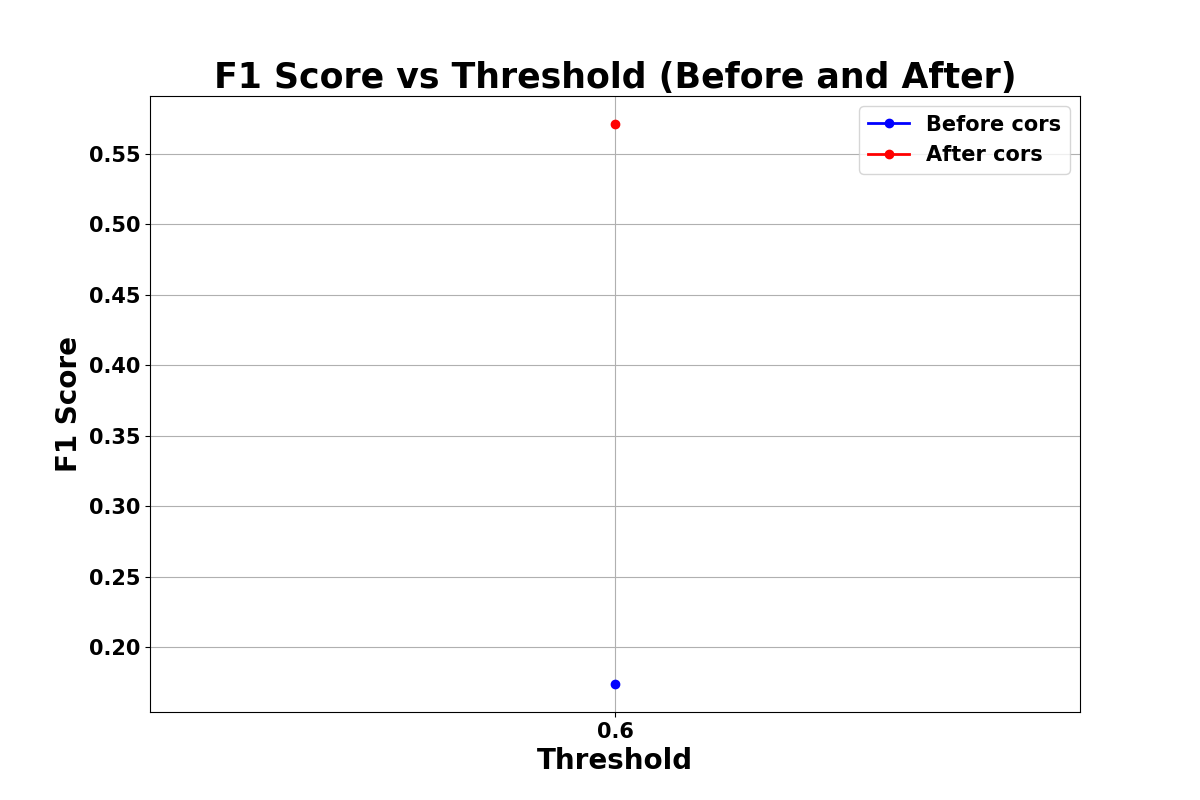
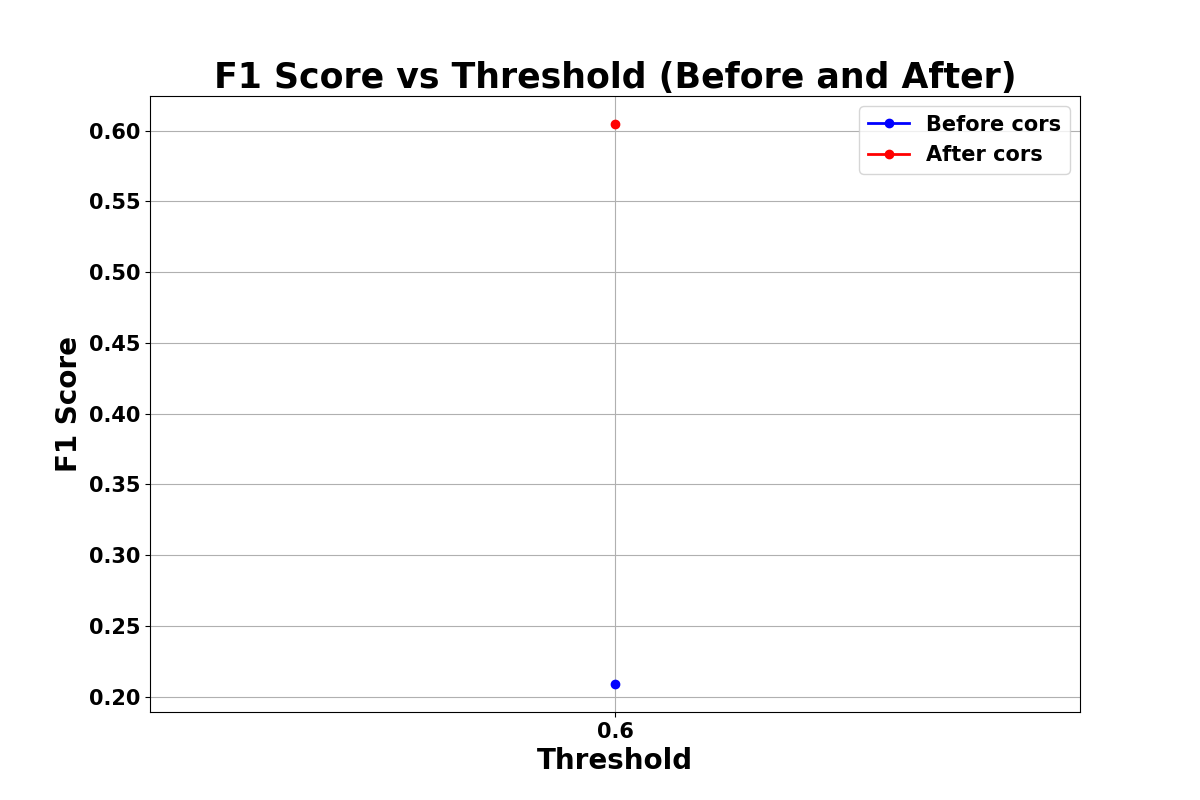
as

diff --git a/model.py b/model.py
@@ -13,8 +13,9 @@ def init_weights(m):
 def train_ensemble(train_loader, val_loader, device):
     # 모든 모델 인스턴스화
     models = generate_model()
-    models = [model.to(device) for model in models]
+    model = models.to(device)
 
+    print(f'models:{model}')
     # 손실을 저장할 리스트
     ensemble_train_losses = []
     ensemble_train_accuracy = []
@@ -22,24 +23,22 @@ def train_ensemble(train_loader, val_loader, device):
     ensemble_val_accuracy = []
 
     # 가중치 초기화 적용
-    for model in models:
-        model.apply(init_weights)
+    model.apply(init_weights)
 
     # 각 모델에 대한 옵티마이저 생성
-    optimizers = [optim.Adam(model.parameters(), lr=1e-4) for model in models]  #1e-4
-    schedulers = [ReduceLROnPlateau(opt, 'min', patience=5, factor=0.5) for opt in optimizers]  # 학습률 스케줄러 추가
+    optimizers = optim.Adam(model.parameters(), lr=1e-4)  #1e-4
+    schedulers = ReduceLROnPlateau(optimizers, 'min', patience=5, factor=0.5)  # 학습률 스케줄러 추가
 
     # 손실 함수
     criterion = nn.BCEWithLogitsLoss().to(device)
-    es = EarlyStopping(patience=7, verbose=True, delta=0.001, path='./loss_and_accuracy')
+    es = EarlyStopping(patience=7, verbose=True, delta=0.001, path='../loss_and_accuracy')
 
     # 학습 루프
     num_epochs = 100
     print('use bagging')
 
     for epoch in range(num_epochs):
-        for model in models:
-            model.train()
+        model.train()
 
         train_loss = 0.0
         train_total = 0
@@ -55,8 +54,8 @@ def train_ensemble(train_loader, val_loader, device):
                 targets = labels.float().unsqueeze(1)
 
                 # i번째 모델로 예측
-                optimizers[i].zero_grad()
-                outputs = models[i](inputs)
+                optimizers.zero_grad()
+                outputs = model(inputs)
                 loss = criterion(outputs, targets)
                 bag_loss += loss.item()
 
@@ -67,7 +66,7 @@ def train_ensemble(train_loader, val_loader, device):
 
                 # 역전파 및 최적화
                 loss.backward()
-                optimizers[i].step()
+                optimizers.step()
 
             # 각 bag의 loss와 정확도를 전체에 더함
             train_loss += bag_loss
@@ -77,8 +76,7 @@ def train_ensemble(train_loader, val_loader, device):
             train_accuracy = 100 * train_correct / train_total
             train_loss /= len(bag_loader)  # 평균 손실 계산
 
-        for scheduler in schedulers:
-            scheduler.step(train_loss)
+        schedulers.step(train_loss)
 
         ensemble_train_losses.append(train_loss)
         ensemble_train_accuracy.append(train_accuracy)
@@ -88,21 +86,19 @@ def train_ensemble(train_loader, val_loader, device):
         val_total = 0
 
         with torch.no_grad():
-            for model in models:
-                model.eval()
+            model.eval()
 
             for inputs, labels in val_loader:
                 inputs = inputs.to(device)
                 labels = labels.to(device)
                 targets = labels.float().unsqueeze(1)
 
-                outputs = [model(inputs) for model in models]
-                ensemble_output = torch.mean(torch.stack(outputs), dim=0)
+                output = model(inputs)
 
-                loss = criterion(ensemble_output, targets)
+                loss = criterion(output, targets)
                 val_loss += loss.item()
 
-                predicted = (torch.sigmoid(ensemble_output) > 0.5).float()
+                predicted = (torch.sigmoid(output) > 0.5).float()
                 val_total += len(targets)   #targets.size(0)
                 val_correct += (predicted == targets).float().sum().item()
 
@@ -113,8 +109,7 @@ def train_ensemble(train_loader, val_loader, device):
         ensemble_val_accuracy.append(val_accuracy)
 
         # 학습률 조정
-        for scheduler in schedulers:
-            scheduler.step(val_loss)
+        schedulers.step(val_loss)
 
         es.__call__(val_loss, models)
         if es.early_stop:

diff --git a/test.py b/test.py
@@ -19,16 +19,16 @@ s_target_path = '../test_dataset/camouflage_soldier'
 path = [test_root_path, non_soldier_path, real_soldier_path, n_target_path, s_target_path]
 test_loader, _ = make_dataset(path, method="test")
 
-checkpoint_dir = 'loss_and_accuracy/main result'
+checkpoint_dir = '../loss_and_accuracy'
 detect_model = YOLO("../yolov8x.pt")
 
 #모델 로드
 def load_ensemble_models(ensemble_model, device):
     models = ensemble_model
-    for i, model in enumerate(models):
-        model.load_state_dict(torch.load(os.path.join(checkpoint_dir, f'model_{i+1}.pt')))
-        model.to(device)
-        model.eval()
+    models.load_state_dict(torch.load(os.path.join(checkpoint_dir, f'model.pt')))
+    models.to(device)
+    models.eval()
+
     return models
 
 def f1_score_cal(tp, fp, fn):
@@ -210,13 +210,12 @@ def predict_image(models, device):
                 
                 norm = torchvision.transforms.Normalize([0.485, 0.456, 0.406], [0.229, 0.224, 0.225])   # yolo모델은 normalize 입력을 받지 않음, 따로 normalize 해주기
                 ensemble_input = norm(inputs)
-                ensemble_output = torch.stack([model(ensemble_input) for model in models], dim=0)   # torch.Size([5, 16, 1])
-                ensemble_output = torch.mean(ensemble_output, dim=0)    # torch.Size([16, 1])
+                output = models(ensemble_input)   # torch.Size([5, 16, 1])
                 
-                loss = criterion(ensemble_output, targets)
+                loss = criterion(output, targets)
                 c_test_loss += loss.item()
 
-                prob = torch.sigmoid(ensemble_output)
+                prob = torch.sigmoid(output)
                 predicted = prob > classification_threshold   # 군인인지 아닌지
                 
                 classification_measurement = cls_measure(predicted, targets.item(), classification_measurement)  # classification vs classification + object detection
@@ -394,11 +393,10 @@ def CORS(inputs, models, detect_model, case, threshold):
             
             with torch.no_grad():
                 norm = torchvision.transforms.Normalize([0.485, 0.456, 0.406], [0.229, 0.224, 0.225])   # yolo모델은 normalize 입력을 받지 않음, 따로 normalize 해주기
-                ensemble_input = norm(inputs)
+                input = norm(inputs)
                 
-                ensemble_output = torch.stack([model(ensemble_input) for model in models], dim=0)
-                ensemble_output = torch.mean(ensemble_output, dim=0)
-                prob = torch.sigmoid(ensemble_output)
+                output = models(input)
+                prob = torch.sigmoid(output)
                 predicted = prob > threshold
                 
                 if predicted.item():

diff --git a/pretrained_model.py b/pretrained_model.py
@@ -102,7 +102,7 @@ def generate_model():
     densenet121 = models.densenet121(weights=models.DenseNet121_Weights.DEFAULT)
     convnext_tiny = models.convnext_tiny(weights=models.ConvNeXt_Tiny_Weights.DEFAULT)
 
-    ensemble_model_list = [resnet50, vgg16, mobilenet_v2, densenet121, convnext_tiny]
-    ensemble_model = [get_pretrained_model(model) for model in ensemble_model_list]
+    ensemble_model_list = resnet50
+    ensemble_model = get_pretrained_model(ensemble_model_list)
 
     return ensemble_model

diff --git a/early_stopping.py b/early_stopping.py
@@ -50,6 +50,5 @@ class EarlyStopping:
         if self.verbose:
             self.trace_func(f'Validation loss decreased ({self.val_loss_min:.6f} --> {val_loss:.6f}).  Saving model ...')
         os.makedirs(self.path, exist_ok=True)
-        for i, model in enumerate(models):
-            torch.save(model.state_dict(), f'{self.path}/model_{i+1}.pt')
+        torch.save(models.state_dict(), f'{self.path}/model.pt')
         self.val_loss_min = val_loss

diff --git a/main.py b/main.py
@@ -26,7 +26,7 @@ if __name__ == "__main__":
         device = torch.device('cpu')
 
     # 데이터 셋 생성 및 모델 훈련, 평가
-    num_epochs = training(device)
+    # num_epochs = training(device)
 
     # 테스트
     testing(device)
